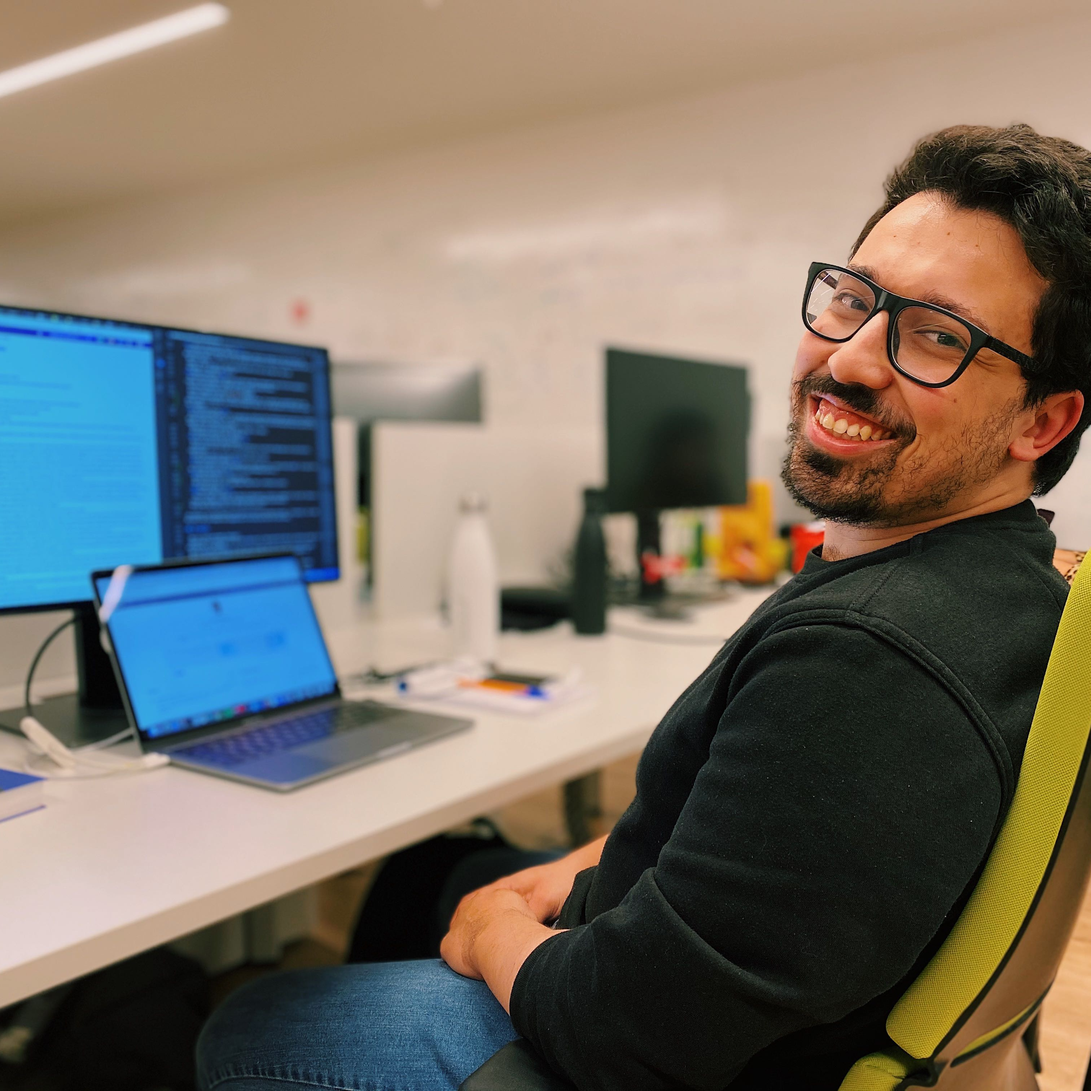
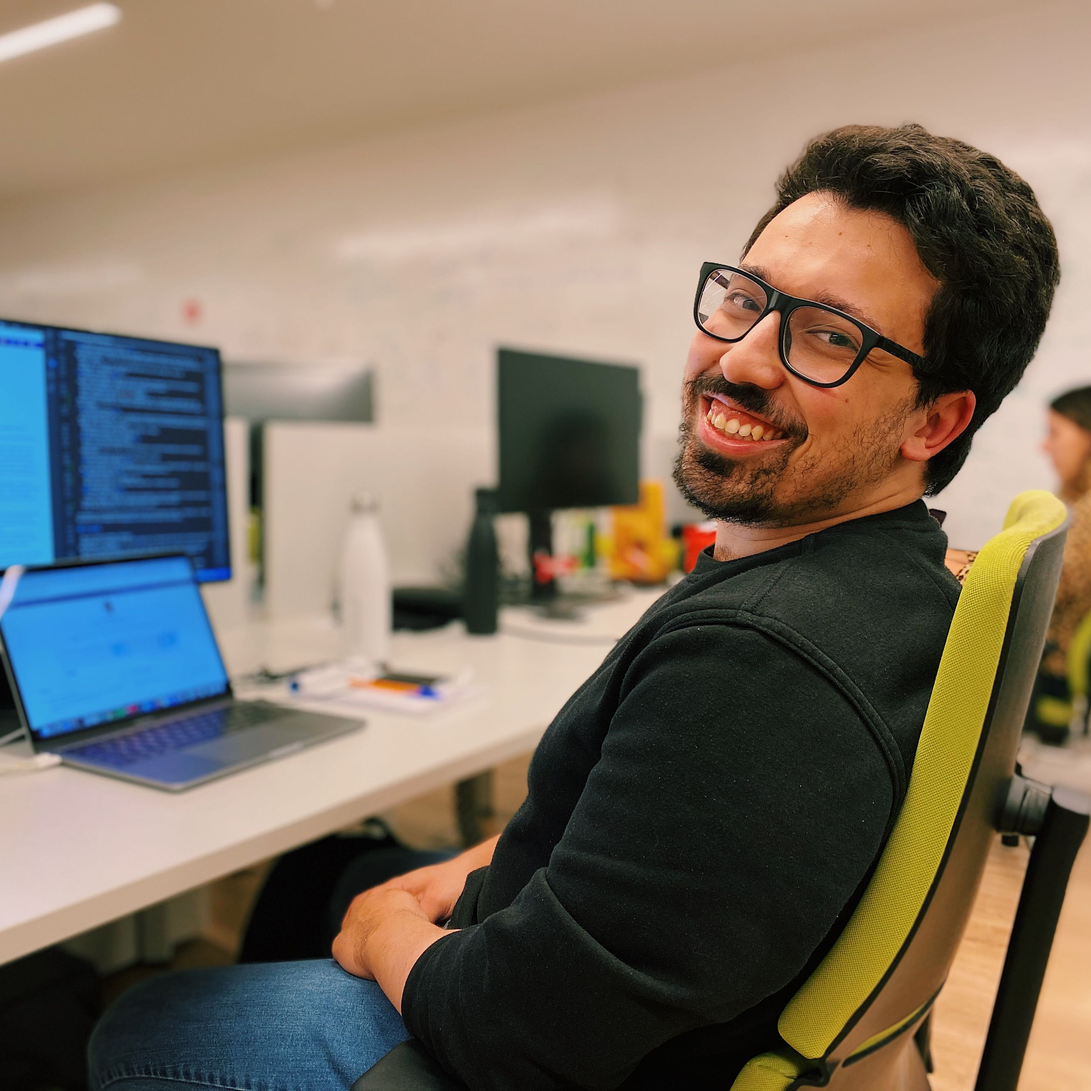
Update cropify

diff --git a/Imaging/cropify.py b/Imaging/cropify.py
@@ -25,7 +25,7 @@ def crop_max_square(img: Image.Image) -> Image.Image:
     return crop_center(img, size, size)
 
 
-def main():
+def main() -> None:
     img = Image.open("joao.jpg")
     cropped_img = crop_max_square(img)
     cropped_img.save("squared_joao.jpg", quality=95)
